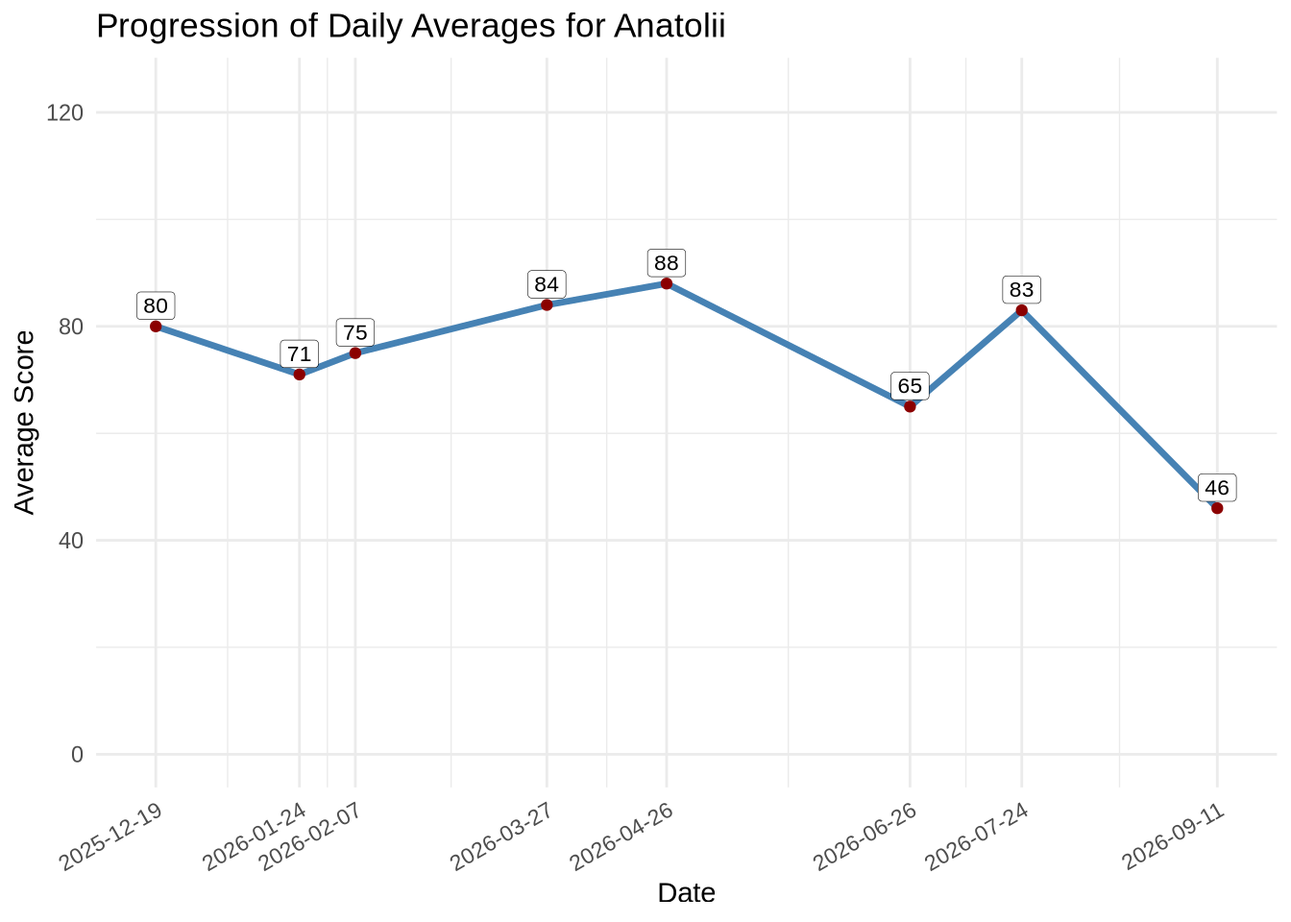
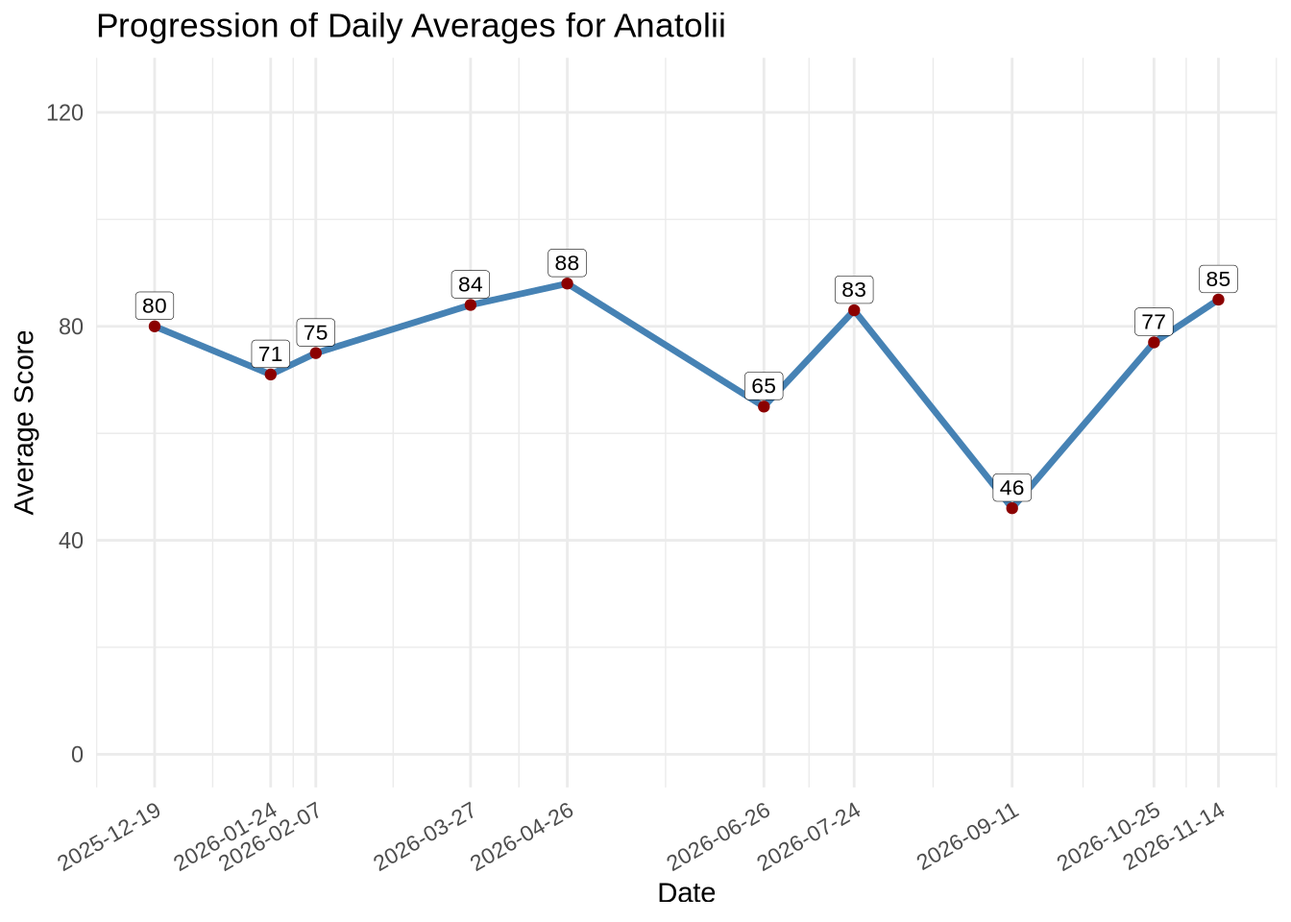
added last 2 rounds, 10 and 11-14

diff --git a/docs/sessions.html b/docs/sessions.html
@@ -172,83 +172,101 @@ ul.task-list li input[type="checkbox"] {
 
 <p>The sessions are sorted from new to old.</p>
 <section id="section" class="level2">
-<h2 class="anchored" data-anchor-id="section">11.09.2026</h2>
+<h2 class="anchored" data-anchor-id="section">14.11.2026</h2>
 <div class="cell">
 <div class="cell-output-display">
-<div class="datatables html-widget html-fill-item" id="htmlwidget-9b29dc53657fa2bf0456" style="width:100%;height:auto;"></div>
-<script type="application/json" data-for="htmlwidget-9b29dc53657fa2bf0456">{"x":{"filter":"none","vertical":false,"data":[["1","2","3","4","5"],["Flora","Daniel","Niko","Julia","Anatolii"],[95,83,96,64,50],[92,100,75,41,43],[93.5,91.5,85.5,52.5,46.5],[2.1,12,14.8,16.3,4.9],[0,3,0,0,1]],"container":"<table class=\"display\">\n  <thead>\n    <tr>\n      <th> <\/th>\n      <th>Player<\/th>\n      <th>Round 1<\/th>\n      <th>Round 2<\/th>\n      <th>Average Score<\/th>\n      <th>Score Standard Deviation<\/th>\n      <th>Strikes<\/th>\n    <\/tr>\n  <\/thead>\n<\/table>","options":{"dom":"t","paging":false,"searching":false,"info":false,"lengthChange":false,"columnDefs":[{"orderSequence":["desc","asc"],"targets":"_all"},{"className":"dt-right","targets":[2,3,4,5,6]},{"orderable":false,"targets":0},{"name":" ","targets":0},{"name":"Player","targets":1},{"name":"Round 1","targets":2},{"name":"Round 2","targets":3},{"name":"Average Score","targets":4},{"name":"Score Standard Deviation","targets":5},{"name":"Strikes","targets":6}],"order":[],"autoWidth":false,"orderClasses":false}},"evals":[],"jsHooks":[]}</script>
+<div class="datatables html-widget html-fill-item" id="htmlwidget-3974eeefaec88f6c987e" style="width:100%;height:auto;"></div>
+<script type="application/json" data-for="htmlwidget-3974eeefaec88f6c987e">{"x":{"filter":"none","vertical":false,"data":[["1","2","3","4"],["Anatolii","Daniel","Niko","Julia"],[90,77,66,50],[80,62,68,76],[85,69.5,67,63],[7.1,10.6,1.4,18.4],[0,1,1,0]],"container":"<table class=\"display\">\n  <thead>\n    <tr>\n      <th> <\/th>\n      <th>Player<\/th>\n      <th>Round 1<\/th>\n      <th>Round 2<\/th>\n      <th>Average Score<\/th>\n      <th>Score Standard Deviation<\/th>\n      <th>Strikes<\/th>\n    <\/tr>\n  <\/thead>\n<\/table>","options":{"dom":"t","paging":false,"searching":false,"info":false,"lengthChange":false,"columnDefs":[{"orderSequence":["desc","asc"],"targets":"_all"},{"className":"dt-right","targets":[2,3,4,5,6]},{"orderable":false,"targets":0},{"name":" ","targets":0},{"name":"Player","targets":1},{"name":"Round 1","targets":2},{"name":"Round 2","targets":3},{"name":"Average Score","targets":4},{"name":"Score Standard Deviation","targets":5},{"name":"Strikes","targets":6}],"order":[],"autoWidth":false,"orderClasses":false}},"evals":[],"jsHooks":[]}</script>
 </div>
 </div>
 </section>
 <section id="section-1" class="level2">
-<h2 class="anchored" data-anchor-id="section-1">24.07.2026</h2>
+<h2 class="anchored" data-anchor-id="section-1">25.10.2026</h2>
 <div class="cell">
 <div class="cell-output-display">
-<div class="datatables html-widget html-fill-item" id="htmlwidget-31cd765f9c8335df683f" style="width:100%;height:auto;"></div>
-<script type="application/json" data-for="htmlwidget-31cd765f9c8335df683f">{"x":{"filter":"none","vertical":false,"data":[["1","2","3","4"],["Anatolii","Flora","Julia","Niko"],[66,71,56,65],[100,80,71,52],[83,75.5,63.5,58.5],[24,6.4,10.6,9.199999999999999],[1,3,0,0]],"container":"<table class=\"display\">\n  <thead>\n    <tr>\n      <th> <\/th>\n      <th>Player<\/th>\n      <th>Round 1<\/th>\n      <th>Round 2<\/th>\n      <th>Average Score<\/th>\n      <th>Score Standard Deviation<\/th>\n      <th>Strikes<\/th>\n    <\/tr>\n  <\/thead>\n<\/table>","options":{"dom":"t","paging":false,"searching":false,"info":false,"lengthChange":false,"columnDefs":[{"orderSequence":["desc","asc"],"targets":"_all"},{"className":"dt-right","targets":[2,3,4,5,6]},{"orderable":false,"targets":0},{"name":" ","targets":0},{"name":"Player","targets":1},{"name":"Round 1","targets":2},{"name":"Round 2","targets":3},{"name":"Average Score","targets":4},{"name":"Score Standard Deviation","targets":5},{"name":"Strikes","targets":6}],"order":[],"autoWidth":false,"orderClasses":false}},"evals":[],"jsHooks":[]}</script>
+<div class="datatables html-widget html-fill-item" id="htmlwidget-6728438d6612a6961759" style="width:100%;height:auto;"></div>
+<script type="application/json" data-for="htmlwidget-6728438d6612a6961759">{"x":{"filter":"none","vertical":false,"data":[["1","2","3","4","5"],["Flora","Daniel","Anatolii","Julia","Niko"],[95,88,73,64,58],[106,83,81,63,57],[100.5,85.5,77,63.5,57.5],[7.8,3.5,5.7,0.7,0.7],[1,1,2,1,1]],"container":"<table class=\"display\">\n  <thead>\n    <tr>\n      <th> <\/th>\n      <th>Player<\/th>\n      <th>Round 1<\/th>\n      <th>Round 2<\/th>\n      <th>Average Score<\/th>\n      <th>Score Standard Deviation<\/th>\n      <th>Strikes<\/th>\n    <\/tr>\n  <\/thead>\n<\/table>","options":{"dom":"t","paging":false,"searching":false,"info":false,"lengthChange":false,"columnDefs":[{"orderSequence":["desc","asc"],"targets":"_all"},{"className":"dt-right","targets":[2,3,4,5,6]},{"orderable":false,"targets":0},{"name":" ","targets":0},{"name":"Player","targets":1},{"name":"Round 1","targets":2},{"name":"Round 2","targets":3},{"name":"Average Score","targets":4},{"name":"Score Standard Deviation","targets":5},{"name":"Strikes","targets":6}],"order":[],"autoWidth":false,"orderClasses":false}},"evals":[],"jsHooks":[]}</script>
 </div>
 </div>
 </section>
 <section id="section-2" class="level2">
-<h2 class="anchored" data-anchor-id="section-2">26.06.2026</h2>
+<h2 class="anchored" data-anchor-id="section-2">11.09.2026</h2>
 <div class="cell">
 <div class="cell-output-display">
-<div class="datatables html-widget html-fill-item" id="htmlwidget-b36b9832ddff176d84d3" style="width:100%;height:auto;"></div>
-<script type="application/json" data-for="htmlwidget-b36b9832ddff176d84d3">{"x":{"filter":"none","vertical":false,"data":[["1","2","3","4","5"],["Flora","Niko","Julia","Daniel","Anatolii"],[101,96,85,78,65],[101,96,85,78,65],[null,null,null,null,null],[2,1,1,0,1]],"container":"<table class=\"display\">\n  <thead>\n    <tr>\n      <th> <\/th>\n      <th>Player<\/th>\n      <th>Round 1<\/th>\n      <th>Average Score<\/th>\n      <th>Score Standard Deviation<\/th>\n      <th>Strikes<\/th>\n    <\/tr>\n  <\/thead>\n<\/table>","options":{"dom":"t","paging":false,"searching":false,"info":false,"lengthChange":false,"columnDefs":[{"orderSequence":["desc","asc"],"targets":"_all"},{"className":"dt-right","targets":[2,3,4,5]},{"orderable":false,"targets":0},{"name":" ","targets":0},{"name":"Player","targets":1},{"name":"Round 1","targets":2},{"name":"Average Score","targets":3},{"name":"Score Standard Deviation","targets":4},{"name":"Strikes","targets":5}],"order":[],"autoWidth":false,"orderClasses":false}},"evals":[],"jsHooks":[]}</script>
+<div class="datatables html-widget html-fill-item" id="htmlwidget-1ed8450b9f31a162fa86" style="width:100%;height:auto;"></div>
+<script type="application/json" data-for="htmlwidget-1ed8450b9f31a162fa86">{"x":{"filter":"none","vertical":false,"data":[["1","2","3","4","5"],["Flora","Daniel","Niko","Julia","Anatolii"],[95,83,96,64,50],[92,100,75,41,43],[93.5,91.5,85.5,52.5,46.5],[2.1,12,14.8,16.3,4.9],[0,3,0,0,1]],"container":"<table class=\"display\">\n  <thead>\n    <tr>\n      <th> <\/th>\n      <th>Player<\/th>\n      <th>Round 1<\/th>\n      <th>Round 2<\/th>\n      <th>Average Score<\/th>\n      <th>Score Standard Deviation<\/th>\n      <th>Strikes<\/th>\n    <\/tr>\n  <\/thead>\n<\/table>","options":{"dom":"t","paging":false,"searching":false,"info":false,"lengthChange":false,"columnDefs":[{"orderSequence":["desc","asc"],"targets":"_all"},{"className":"dt-right","targets":[2,3,4,5,6]},{"orderable":false,"targets":0},{"name":" ","targets":0},{"name":"Player","targets":1},{"name":"Round 1","targets":2},{"name":"Round 2","targets":3},{"name":"Average Score","targets":4},{"name":"Score Standard Deviation","targets":5},{"name":"Strikes","targets":6}],"order":[],"autoWidth":false,"orderClasses":false}},"evals":[],"jsHooks":[]}</script>
 </div>
 </div>
 </section>
 <section id="section-3" class="level2">
-<h2 class="anchored" data-anchor-id="section-3">26.04.2026</h2>
+<h2 class="anchored" data-anchor-id="section-3">24.07.2026</h2>
 <div class="cell">
 <div class="cell-output-display">
-<div class="datatables html-widget html-fill-item" id="htmlwidget-78da27607510c00e0f43" style="width:100%;height:auto;"></div>
-<script type="application/json" data-for="htmlwidget-78da27607510c00e0f43">{"x":{"filter":"none","vertical":false,"data":[["1","2","3","4"],["Anatolii","Niko","Daniel","Flora"],[85,85,57,46],[90,71,93,78],[87.5,78,75,62],[3.5,9.9,25.5,22.6],[2,0,1,1]],"container":"<table class=\"display\">\n  <thead>\n    <tr>\n      <th> <\/th>\n      <th>Player<\/th>\n      <th>Round 1<\/th>\n      <th>Round 2<\/th>\n      <th>Average Score<\/th>\n      <th>Score Standard Deviation<\/th>\n      <th>Strikes<\/th>\n    <\/tr>\n  <\/thead>\n<\/table>","options":{"dom":"t","paging":false,"searching":false,"info":false,"lengthChange":false,"columnDefs":[{"orderSequence":["desc","asc"],"targets":"_all"},{"className":"dt-right","targets":[2,3,4,5,6]},{"orderable":false,"targets":0},{"name":" ","targets":0},{"name":"Player","targets":1},{"name":"Round 1","targets":2},{"name":"Round 2","targets":3},{"name":"Average Score","targets":4},{"name":"Score Standard Deviation","targets":5},{"name":"Strikes","targets":6}],"order":[],"autoWidth":false,"orderClasses":false}},"evals":[],"jsHooks":[]}</script>
+<div class="datatables html-widget html-fill-item" id="htmlwidget-5e7804de46c9dbb04c93" style="width:100%;height:auto;"></div>
+<script type="application/json" data-for="htmlwidget-5e7804de46c9dbb04c93">{"x":{"filter":"none","vertical":false,"data":[["1","2","3","4"],["Anatolii","Flora","Julia","Niko"],[66,71,56,65],[100,80,71,52],[83,75.5,63.5,58.5],[24,6.4,10.6,9.199999999999999],[1,3,0,0]],"container":"<table class=\"display\">\n  <thead>\n    <tr>\n      <th> <\/th>\n      <th>Player<\/th>\n      <th>Round 1<\/th>\n      <th>Round 2<\/th>\n      <th>Average Score<\/th>\n      <th>Score Standard Deviation<\/th>\n      <th>Strikes<\/th>\n    <\/tr>\n  <\/thead>\n<\/table>","options":{"dom":"t","paging":false,"searching":false,"info":false,"lengthChange":false,"columnDefs":[{"orderSequence":["desc","asc"],"targets":"_all"},{"className":"dt-right","targets":[2,3,4,5,6]},{"orderable":false,"targets":0},{"name":" ","targets":0},{"name":"Player","targets":1},{"name":"Round 1","targets":2},{"name":"Round 2","targets":3},{"name":"Average Score","targets":4},{"name":"Score Standard Deviation","targets":5},{"name":"Strikes","targets":6}],"order":[],"autoWidth":false,"orderClasses":false}},"evals":[],"jsHooks":[]}</script>
 </div>
 </div>
 </section>
 <section id="section-4" class="level2">
-<h2 class="anchored" data-anchor-id="section-4">27.03.2026</h2>
+<h2 class="anchored" data-anchor-id="section-4">26.06.2026</h2>
 <div class="cell">
 <div class="cell-output-display">
-<div class="datatables html-widget html-fill-item" id="htmlwidget-7de2136e36e15fe004db" style="width:100%;height:auto;"></div>
-<script type="application/json" data-for="htmlwidget-7de2136e36e15fe004db">{"x":{"filter":"none","vertical":false,"data":[["1","2","3","4"],["Niko","Anatolii","Flora","Julia"],[119,88,75,49],[105,81,89,94],[112,84.5,82,71.5],[9.9,4.9,9.9,31.8],[3,2,1,4]],"container":"<table class=\"display\">\n  <thead>\n    <tr>\n      <th> <\/th>\n      <th>Player<\/th>\n      <th>Round 1<\/th>\n      <th>Round 2<\/th>\n      <th>Average Score<\/th>\n      <th>Score Standard Deviation<\/th>\n      <th>Strikes<\/th>\n    <\/tr>\n  <\/thead>\n<\/table>","options":{"dom":"t","paging":false,"searching":false,"info":false,"lengthChange":false,"columnDefs":[{"orderSequence":["desc","asc"],"targets":"_all"},{"className":"dt-right","targets":[2,3,4,5,6]},{"orderable":false,"targets":0},{"name":" ","targets":0},{"name":"Player","targets":1},{"name":"Round 1","targets":2},{"name":"Round 2","targets":3},{"name":"Average Score","targets":4},{"name":"Score Standard Deviation","targets":5},{"name":"Strikes","targets":6}],"order":[],"autoWidth":false,"orderClasses":false}},"evals":[],"jsHooks":[]}</script>
+<div class="datatables html-widget html-fill-item" id="htmlwidget-086f5611c55d9c74e61f" style="width:100%;height:auto;"></div>
+<script type="application/json" data-for="htmlwidget-086f5611c55d9c74e61f">{"x":{"filter":"none","vertical":false,"data":[["1","2","3","4","5"],["Flora","Niko","Julia","Daniel","Anatolii"],[101,96,85,78,65],[101,96,85,78,65],[null,null,null,null,null],[2,1,1,0,1]],"container":"<table class=\"display\">\n  <thead>\n    <tr>\n      <th> <\/th>\n      <th>Player<\/th>\n      <th>Round 1<\/th>\n      <th>Average Score<\/th>\n      <th>Score Standard Deviation<\/th>\n      <th>Strikes<\/th>\n    <\/tr>\n  <\/thead>\n<\/table>","options":{"dom":"t","paging":false,"searching":false,"info":false,"lengthChange":false,"columnDefs":[{"orderSequence":["desc","asc"],"targets":"_all"},{"className":"dt-right","targets":[2,3,4,5]},{"orderable":false,"targets":0},{"name":" ","targets":0},{"name":"Player","targets":1},{"name":"Round 1","targets":2},{"name":"Average Score","targets":3},{"name":"Score Standard Deviation","targets":4},{"name":"Strikes","targets":5}],"order":[],"autoWidth":false,"orderClasses":false}},"evals":[],"jsHooks":[]}</script>
 </div>
 </div>
 </section>
 <section id="section-5" class="level2">
-<h2 class="anchored" data-anchor-id="section-5">06.03.2026</h2>
+<h2 class="anchored" data-anchor-id="section-5">26.04.2026</h2>
 <div class="cell">
 <div class="cell-output-display">
-<div class="datatables html-widget html-fill-item" id="htmlwidget-5667e7560b008423b590" style="width:100%;height:auto;"></div>
-<script type="application/json" data-for="htmlwidget-5667e7560b008423b590">{"x":{"filter":"none","vertical":false,"data":[["1","2","3","4"],["Flora","Julia","Daniel","Maria"],[95,45,57,58],[77,64,50,38],[86,54.5,53.5,48],[12.7,13.4,4.9,14.1],[2,0,1,0]],"container":"<table class=\"display\">\n  <thead>\n    <tr>\n      <th> <\/th>\n      <th>Player<\/th>\n      <th>Round 1<\/th>\n      <th>Round 2<\/th>\n      <th>Average Score<\/th>\n      <th>Score Standard Deviation<\/th>\n      <th>Strikes<\/th>\n    <\/tr>\n  <\/thead>\n<\/table>","options":{"dom":"t","paging":false,"searching":false,"info":false,"lengthChange":false,"columnDefs":[{"orderSequence":["desc","asc"],"targets":"_all"},{"className":"dt-right","targets":[2,3,4,5,6]},{"orderable":false,"targets":0},{"name":" ","targets":0},{"name":"Player","targets":1},{"name":"Round 1","targets":2},{"name":"Round 2","targets":3},{"name":"Average Score","targets":4},{"name":"Score Standard Deviation","targets":5},{"name":"Strikes","targets":6}],"order":[],"autoWidth":false,"orderClasses":false}},"evals":[],"jsHooks":[]}</script>
+<div class="datatables html-widget html-fill-item" id="htmlwidget-18fb2f7a97e2a98253d0" style="width:100%;height:auto;"></div>
+<script type="application/json" data-for="htmlwidget-18fb2f7a97e2a98253d0">{"x":{"filter":"none","vertical":false,"data":[["1","2","3","4"],["Anatolii","Niko","Daniel","Flora"],[85,85,57,46],[90,71,93,78],[87.5,78,75,62],[3.5,9.9,25.5,22.6],[2,0,1,1]],"container":"<table class=\"display\">\n  <thead>\n    <tr>\n      <th> <\/th>\n      <th>Player<\/th>\n      <th>Round 1<\/th>\n      <th>Round 2<\/th>\n      <th>Average Score<\/th>\n      <th>Score Standard Deviation<\/th>\n      <th>Strikes<\/th>\n    <\/tr>\n  <\/thead>\n<\/table>","options":{"dom":"t","paging":false,"searching":false,"info":false,"lengthChange":false,"columnDefs":[{"orderSequence":["desc","asc"],"targets":"_all"},{"className":"dt-right","targets":[2,3,4,5,6]},{"orderable":false,"targets":0},{"name":" ","targets":0},{"name":"Player","targets":1},{"name":"Round 1","targets":2},{"name":"Round 2","targets":3},{"name":"Average Score","targets":4},{"name":"Score Standard Deviation","targets":5},{"name":"Strikes","targets":6}],"order":[],"autoWidth":false,"orderClasses":false}},"evals":[],"jsHooks":[]}</script>
 </div>
 </div>
 </section>
 <section id="section-6" class="level2">
-<h2 class="anchored" data-anchor-id="section-6">07.02.2026</h2>
+<h2 class="anchored" data-anchor-id="section-6">27.03.2026</h2>
 <div class="cell">
 <div class="cell-output-display">
-<div class="datatables html-widget html-fill-item" id="htmlwidget-8d096dc33406ac79f713" style="width:100%;height:auto;"></div>
-<script type="application/json" data-for="htmlwidget-8d096dc33406ac79f713">{"x":{"filter":"none","vertical":false,"data":[["1","2","3","4"],["Niko","Anatolii","Julia","Daniel"],[81,71,63,49],[124,74,68,82],[82,81,70,59],[95.7,75.3,67,63.3],[24.5,5.1,3.6,16.9],[2,2,0,0]],"container":"<table class=\"display\">\n  <thead>\n    <tr>\n      <th> <\/th>\n      <th>Player<\/th>\n      <th>Round 1<\/th>\n      <th>Round 2<\/th>\n      <th>Round 3<\/th>\n      <th>Average Score<\/th>\n      <th>Score Standard Deviation<\/th>\n      <th>Strikes<\/th>\n    <\/tr>\n  <\/thead>\n<\/table>","options":{"dom":"t","paging":false,"searching":false,"info":false,"lengthChange":false,"columnDefs":[{"orderSequence":["desc","asc"],"targets":"_all"},{"className":"dt-right","targets":[2,3,4,5,6,7]},{"orderable":false,"targets":0},{"name":" ","targets":0},{"name":"Player","targets":1},{"name":"Round 1","targets":2},{"name":"Round 2","targets":3},{"name":"Round 3","targets":4},{"name":"Average Score","targets":5},{"name":"Score Standard Deviation","targets":6},{"name":"Strikes","targets":7}],"order":[],"autoWidth":false,"orderClasses":false}},"evals":[],"jsHooks":[]}</script>
+<div class="datatables html-widget html-fill-item" id="htmlwidget-4a05735e17c3510a57b7" style="width:100%;height:auto;"></div>
+<script type="application/json" data-for="htmlwidget-4a05735e17c3510a57b7">{"x":{"filter":"none","vertical":false,"data":[["1","2","3","4"],["Niko","Anatolii","Flora","Julia"],[119,88,75,49],[105,81,89,94],[112,84.5,82,71.5],[9.9,4.9,9.9,31.8],[3,2,1,4]],"container":"<table class=\"display\">\n  <thead>\n    <tr>\n      <th> <\/th>\n      <th>Player<\/th>\n      <th>Round 1<\/th>\n      <th>Round 2<\/th>\n      <th>Average Score<\/th>\n      <th>Score Standard Deviation<\/th>\n      <th>Strikes<\/th>\n    <\/tr>\n  <\/thead>\n<\/table>","options":{"dom":"t","paging":false,"searching":false,"info":false,"lengthChange":false,"columnDefs":[{"orderSequence":["desc","asc"],"targets":"_all"},{"className":"dt-right","targets":[2,3,4,5,6]},{"orderable":false,"targets":0},{"name":" ","targets":0},{"name":"Player","targets":1},{"name":"Round 1","targets":2},{"name":"Round 2","targets":3},{"name":"Average Score","targets":4},{"name":"Score Standard Deviation","targets":5},{"name":"Strikes","targets":6}],"order":[],"autoWidth":false,"orderClasses":false}},"evals":[],"jsHooks":[]}</script>
 </div>
 </div>
 </section>
 <section id="section-7" class="level2">
-<h2 class="anchored" data-anchor-id="section-7">24.01.2026</h2>
+<h2 class="anchored" data-anchor-id="section-7">06.03.2026</h2>
 <div class="cell">
 <div class="cell-output-display">
-<div class="datatables html-widget html-fill-item" id="htmlwidget-af182bb5b9e8fd6903e7" style="width:100%;height:auto;"></div>
-<script type="application/json" data-for="htmlwidget-af182bb5b9e8fd6903e7">{"x":{"filter":"none","vertical":false,"data":[["1","2","3","4","5"],["Niko","Anatolii","Daniel","Julia","Flora"],[73,73,82,65,46],[101,70,54,81,81],[86,71,75,64,72],[86.7,71.3,70.3,70,66.3],[14,1.5,14.6,9.5,18.2],[2,2,0,3,1]],"container":"<table class=\"display\">\n  <thead>\n    <tr>\n      <th> <\/th>\n      <th>Player<\/th>\n      <th>Round 1<\/th>\n      <th>Round 2<\/th>\n      <th>Round 3<\/th>\n      <th>Average Score<\/th>\n      <th>Score Standard Deviation<\/th>\n      <th>Strikes<\/th>\n    <\/tr>\n  <\/thead>\n<\/table>","options":{"dom":"t","paging":false,"searching":false,"info":false,"lengthChange":false,"columnDefs":[{"orderSequence":["desc","asc"],"targets":"_all"},{"className":"dt-right","targets":[2,3,4,5,6,7]},{"orderable":false,"targets":0},{"name":" ","targets":0},{"name":"Player","targets":1},{"name":"Round 1","targets":2},{"name":"Round 2","targets":3},{"name":"Round 3","targets":4},{"name":"Average Score","targets":5},{"name":"Score Standard Deviation","targets":6},{"name":"Strikes","targets":7}],"order":[],"autoWidth":false,"orderClasses":false}},"evals":[],"jsHooks":[]}</script>
+<div class="datatables html-widget html-fill-item" id="htmlwidget-77eddeb67822b5fcebf8" style="width:100%;height:auto;"></div>
+<script type="application/json" data-for="htmlwidget-77eddeb67822b5fcebf8">{"x":{"filter":"none","vertical":false,"data":[["1","2","3","4"],["Flora","Julia","Daniel","Maria"],[95,45,57,58],[77,64,50,38],[86,54.5,53.5,48],[12.7,13.4,4.9,14.1],[2,0,1,0]],"container":"<table class=\"display\">\n  <thead>\n    <tr>\n      <th> <\/th>\n      <th>Player<\/th>\n      <th>Round 1<\/th>\n      <th>Round 2<\/th>\n      <th>Average Score<\/th>\n      <th>Score Standard Deviation<\/th>\n      <th>Strikes<\/th>\n    <\/tr>\n  <\/thead>\n<\/table>","options":{"dom":"t","paging":false,"searching":false,"info":false,"lengthChange":false,"columnDefs":[{"orderSequence":["desc","asc"],"targets":"_all"},{"className":"dt-right","targets":[2,3,4,5,6]},{"orderable":false,"targets":0},{"name":" ","targets":0},{"name":"Player","targets":1},{"name":"Round 1","targets":2},{"name":"Round 2","targets":3},{"name":"Average Score","targets":4},{"name":"Score Standard Deviation","targets":5},{"name":"Strikes","targets":6}],"order":[],"autoWidth":false,"orderClasses":false}},"evals":[],"jsHooks":[]}</script>
 </div>
 </div>
 </section>
 <section id="section-8" class="level2">
-<h2 class="anchored" data-anchor-id="section-8">19.12.2025</h2>
+<h2 class="anchored" data-anchor-id="section-8">07.02.2026</h2>
 <div class="cell">
 <div class="cell-output-display">
-<div class="datatables html-widget html-fill-item" id="htmlwidget-8f0e8293e048aa7f285f" style="width:100%;height:auto;"></div>
-<script type="application/json" data-for="htmlwidget-8f0e8293e048aa7f285f">{"x":{"filter":"none","vertical":false,"data":[["1","2","3","4","5"],["Niko","Anatolii","Julia","Flora","Daniel"],[73,61,66,105,48],[97,79,79,51,77],[90,101,79,43,49],[86.7,80.3,74.7,66.3,58],[12.3,20,7.5,33.7,16.5],[3,2,0,2,1]],"container":"<table class=\"display\">\n  <thead>\n    <tr>\n      <th> <\/th>\n      <th>Player<\/th>\n      <th>Round 1<\/th>\n      <th>Round 2<\/th>\n      <th>Round 3<\/th>\n      <th>Average Score<\/th>\n      <th>Score Standard Deviation<\/th>\n      <th>Strikes<\/th>\n    <\/tr>\n  <\/thead>\n<\/table>","options":{"dom":"t","paging":false,"searching":false,"info":false,"lengthChange":false,"columnDefs":[{"orderSequence":["desc","asc"],"targets":"_all"},{"className":"dt-right","targets":[2,3,4,5,6,7]},{"orderable":false,"targets":0},{"name":" ","targets":0},{"name":"Player","targets":1},{"name":"Round 1","targets":2},{"name":"Round 2","targets":3},{"name":"Round 3","targets":4},{"name":"Average Score","targets":5},{"name":"Score Standard Deviation","targets":6},{"name":"Strikes","targets":7}],"order":[],"autoWidth":false,"orderClasses":false}},"evals":[],"jsHooks":[]}</script>
+<div class="datatables html-widget html-fill-item" id="htmlwidget-a8552e7b45ebaf89b95a" style="width:100%;height:auto;"></div>
+<script type="application/json" data-for="htmlwidget-a8552e7b45ebaf89b95a">{"x":{"filter":"none","vertical":false,"data":[["1","2","3","4"],["Niko","Anatolii","Julia","Daniel"],[81,71,63,49],[124,74,68,82],[82,81,70,59],[95.7,75.3,67,63.3],[24.5,5.1,3.6,16.9],[2,2,0,0]],"container":"<table class=\"display\">\n  <thead>\n    <tr>\n      <th> <\/th>\n      <th>Player<\/th>\n      <th>Round 1<\/th>\n      <th>Round 2<\/th>\n      <th>Round 3<\/th>\n      <th>Average Score<\/th>\n      <th>Score Standard Deviation<\/th>\n      <th>Strikes<\/th>\n    <\/tr>\n  <\/thead>\n<\/table>","options":{"dom":"t","paging":false,"searching":false,"info":false,"lengthChange":false,"columnDefs":[{"orderSequence":["desc","asc"],"targets":"_all"},{"className":"dt-right","targets":[2,3,4,5,6,7]},{"orderable":false,"targets":0},{"name":" ","targets":0},{"name":"Player","targets":1},{"name":"Round 1","targets":2},{"name":"Round 2","targets":3},{"name":"Round 3","targets":4},{"name":"Average Score","targets":5},{"name":"Score Standard Deviation","targets":6},{"name":"Strikes","targets":7}],"order":[],"autoWidth":false,"orderClasses":false}},"evals":[],"jsHooks":[]}</script>
+</div>
+</div>
+</section>
+<section id="section-9" class="level2">
+<h2 class="anchored" data-anchor-id="section-9">24.01.2026</h2>
+<div class="cell">
+<div class="cell-output-display">
+<div class="datatables html-widget html-fill-item" id="htmlwidget-12559057b28414e3781e" style="width:100%;height:auto;"></div>
+<script type="application/json" data-for="htmlwidget-12559057b28414e3781e">{"x":{"filter":"none","vertical":false,"data":[["1","2","3","4","5"],["Niko","Anatolii","Daniel","Julia","Flora"],[73,73,82,65,46],[101,70,54,81,81],[86,71,75,64,72],[86.7,71.3,70.3,70,66.3],[14,1.5,14.6,9.5,18.2],[2,2,0,3,1]],"container":"<table class=\"display\">\n  <thead>\n    <tr>\n      <th> <\/th>\n      <th>Player<\/th>\n      <th>Round 1<\/th>\n      <th>Round 2<\/th>\n      <th>Round 3<\/th>\n      <th>Average Score<\/th>\n      <th>Score Standard Deviation<\/th>\n      <th>Strikes<\/th>\n    <\/tr>\n  <\/thead>\n<\/table>","options":{"dom":"t","paging":false,"searching":false,"info":false,"lengthChange":false,"columnDefs":[{"orderSequence":["desc","asc"],"targets":"_all"},{"className":"dt-right","targets":[2,3,4,5,6,7]},{"orderable":false,"targets":0},{"name":" ","targets":0},{"name":"Player","targets":1},{"name":"Round 1","targets":2},{"name":"Round 2","targets":3},{"name":"Round 3","targets":4},{"name":"Average Score","targets":5},{"name":"Score Standard Deviation","targets":6},{"name":"Strikes","targets":7}],"order":[],"autoWidth":false,"orderClasses":false}},"evals":[],"jsHooks":[]}</script>
+</div>
+</div>
+</section>
+<section id="section-10" class="level2">
+<h2 class="anchored" data-anchor-id="section-10">19.12.2025</h2>
+<div class="cell">
+<div class="cell-output-display">
+<div class="datatables html-widget html-fill-item" id="htmlwidget-1e51ff8ebfd592b9904b" style="width:100%;height:auto;"></div>
+<script type="application/json" data-for="htmlwidget-1e51ff8ebfd592b9904b">{"x":{"filter":"none","vertical":false,"data":[["1","2","3","4","5"],["Niko","Anatolii","Julia","Flora","Daniel"],[73,61,66,105,48],[97,79,79,51,77],[90,101,79,43,49],[86.7,80.3,74.7,66.3,58],[12.3,20,7.5,33.7,16.5],[3,2,0,2,1]],"container":"<table class=\"display\">\n  <thead>\n    <tr>\n      <th> <\/th>\n      <th>Player<\/th>\n      <th>Round 1<\/th>\n      <th>Round 2<\/th>\n      <th>Round 3<\/th>\n      <th>Average Score<\/th>\n      <th>Score Standard Deviation<\/th>\n      <th>Strikes<\/th>\n    <\/tr>\n  <\/thead>\n<\/table>","options":{"dom":"t","paging":false,"searching":false,"info":false,"lengthChange":false,"columnDefs":[{"orderSequence":["desc","asc"],"targets":"_all"},{"className":"dt-right","targets":[2,3,4,5,6,7]},{"orderable":false,"targets":0},{"name":" ","targets":0},{"name":"Player","targets":1},{"name":"Round 1","targets":2},{"name":"Round 2","targets":3},{"name":"Round 3","targets":4},{"name":"Average Score","targets":5},{"name":"Score Standard Deviation","targets":6},{"name":"Strikes","targets":7}],"order":[],"autoWidth":false,"orderClasses":false}},"evals":[],"jsHooks":[]}</script>
 </div>
 </div>
 

diff --git a/docs/index.html b/docs/index.html
@@ -172,8 +172,8 @@ ul.task-list li input[type="checkbox"] {
 
 <div class="cell">
 <div class="cell-output-display">
-<div class="datatables html-widget html-fill-item" id="htmlwidget-d736803bef80e8292404" style="width:100%;height:auto;"></div>
-<script type="application/json" data-for="htmlwidget-d736803bef80e8292404">{"x":{"filter":"none","vertical":false,"data":[["1","2","3","4","5","6"],["Niko","Flora","Anatolii","Daniel","Julia","Maria"],[18,17,18,16,18,2],[87.3,76.3,74.90000000000001,68.3,66.90000000000001,48],[124,105,101,100,94,58],[52,43,43,48,41,38],[18.4,19.7,15.3,17.2,13.8,14.1],[0.6,0.7,0.7,0.4,0.4,0]],"container":"<table class=\"display\">\n  <thead>\n    <tr>\n      <th> <\/th>\n      <th>Player<\/th>\n      <th>Total Rounds Played<\/th>\n      <th>Average Score<\/th>\n      <th>Best Score<\/th>\n      <th>Worst Score<\/th>\n      <th>Score Standard Deviation<\/th>\n      <th>Strikes/ Game<\/th>\n    <\/tr>\n  <\/thead>\n<\/table>","options":{"dom":"t","paging":false,"searching":false,"info":false,"lengthChange":false,"columnDefs":[{"orderSequence":["desc","asc"],"targets":"_all"},{"className":"dt-right","targets":[2,3,4,5,6,7]},{"orderable":false,"targets":0},{"name":" ","targets":0},{"name":"Player","targets":1},{"name":"Total Rounds Played","targets":2},{"name":"Average Score","targets":3},{"name":"Best Score","targets":4},{"name":"Worst Score","targets":5},{"name":"Score Standard Deviation","targets":6},{"name":"Strikes/ Game","targets":7}],"order":[],"autoWidth":false,"orderClasses":false}},"evals":[],"jsHooks":[]}</script>
+<div class="datatables html-widget html-fill-item" id="htmlwidget-62793289dd8eb1cf0299" style="width:100%;height:auto;"></div>
+<script type="application/json" data-for="htmlwidget-62793289dd8eb1cf0299">{"x":{"filter":"none","vertical":false,"data":[["1","2","3","4","5","6"],["Niko","Flora","Anatolii","Daniel","Julia","Maria"],[22,19,22,20,22,2],[82.7,78.8,76,70.2,66.2,48],[124,106,101,100,94,58],[52,43,43,48,41,38],[19.4,20.2,14.2,16.4,13.1,14.1],[0.6,0.7,0.7,0.4,0.4,0]],"container":"<table class=\"display\">\n  <thead>\n    <tr>\n      <th> <\/th>\n      <th>Player<\/th>\n      <th>Total Rounds Played<\/th>\n      <th>Average Score<\/th>\n      <th>Best Score<\/th>\n      <th>Worst Score<\/th>\n      <th>Score Standard Deviation<\/th>\n      <th>Strikes/ Game<\/th>\n    <\/tr>\n  <\/thead>\n<\/table>","options":{"dom":"t","paging":false,"searching":false,"info":false,"lengthChange":false,"columnDefs":[{"orderSequence":["desc","asc"],"targets":"_all"},{"className":"dt-right","targets":[2,3,4,5,6,7]},{"orderable":false,"targets":0},{"name":" ","targets":0},{"name":"Player","targets":1},{"name":"Total Rounds Played","targets":2},{"name":"Average Score","targets":3},{"name":"Best Score","targets":4},{"name":"Worst Score","targets":5},{"name":"Score Standard Deviation","targets":6},{"name":"Strikes/ Game","targets":7}],"order":[],"autoWidth":false,"orderClasses":false}},"evals":[],"jsHooks":[]}</script>
 </div>
 </div>
 

diff --git a/docs/players/anatolii.html b/docs/players/anatolii.html
@@ -172,8 +172,8 @@ ul.task-list li input[type="checkbox"] {
 <h2 class="anchored" data-anchor-id="stats-overview">Stats Overview</h2>
 <div class="cell">
 <div class="cell-output-display">
-<div class="datatables html-widget html-fill-item" id="htmlwidget-d1f187b091dfd30f0d0b" style="width:100%;height:auto;"></div>
-<script type="application/json" data-for="htmlwidget-d1f187b091dfd30f0d0b">{"x":{"filter":"none","vertical":false,"data":[[18],[101],[43],[74.90000000000001],[15.3],[0.7]],"container":"<table class=\"display\">\n  <thead>\n    <tr>\n      <th>Total Rounds Played<\/th>\n      <th>Highest Score<\/th>\n      <th>Lowest Score<\/th>\n      <th>Average Score<\/th>\n      <th>Score Standard Deviation<\/th>\n      <th>Strikes/ Game<\/th>\n    <\/tr>\n  <\/thead>\n<\/table>","options":{"dom":"t","paging":false,"searching":false,"info":false,"lengthChange":false,"columnDefs":[{"className":"dt-right","targets":[0,1,2,3,4,5]},{"name":"Total Rounds Played","targets":0},{"name":"Highest Score","targets":1},{"name":"Lowest Score","targets":2},{"name":"Average Score","targets":3},{"name":"Score Standard Deviation","targets":4},{"name":"Strikes/ Game","targets":5}],"order":[],"autoWidth":false,"orderClasses":false}},"evals":[],"jsHooks":[]}</script>
+<div class="datatables html-widget html-fill-item" id="htmlwidget-e40f7ddb2693a8d389fc" style="width:100%;height:auto;"></div>
+<script type="application/json" data-for="htmlwidget-e40f7ddb2693a8d389fc">{"x":{"filter":"none","vertical":false,"data":[[22],[101],[43],[76],[14.2],[0.7]],"container":"<table class=\"display\">\n  <thead>\n    <tr>\n      <th>Total Rounds Played<\/th>\n      <th>Highest Score<\/th>\n      <th>Lowest Score<\/th>\n      <th>Average Score<\/th>\n      <th>Score Standard Deviation<\/th>\n      <th>Strikes/ Game<\/th>\n    <\/tr>\n  <\/thead>\n<\/table>","options":{"dom":"t","paging":false,"searching":false,"info":false,"lengthChange":false,"columnDefs":[{"className":"dt-right","targets":[0,1,2,3,4,5]},{"name":"Total Rounds Played","targets":0},{"name":"Highest Score","targets":1},{"name":"Lowest Score","targets":2},{"name":"Average Score","targets":3},{"name":"Score Standard Deviation","targets":4},{"name":"Strikes/ Game","targets":5}],"order":[],"autoWidth":false,"orderClasses":false}},"evals":[],"jsHooks":[]}</script>
 </div>
 </div>
 </section>

diff --git a/docs/players/julia.html b/docs/players/julia.html
@@ -172,8 +172,8 @@ ul.task-list li input[type="checkbox"] {
 <h2 class="anchored" data-anchor-id="stats-overview">Stats Overview</h2>
 <div class="cell">
 <div class="cell-output-display">
-<div class="datatables html-widget html-fill-item" id="htmlwidget-fe9e21d6791cda214636" style="width:100%;height:auto;"></div>
-<script type="application/json" data-for="htmlwidget-fe9e21d6791cda214636">{"x":{"filter":"none","vertical":false,"data":[[18],[94],[41],[66.90000000000001],[13.8],[0.4]],"container":"<table class=\"display\">\n  <thead>\n    <tr>\n      <th>Total Rounds Played<\/th>\n      <th>Highest Score<\/th>\n      <th>Lowest Score<\/th>\n      <th>Average Score<\/th>\n      <th>Score Standard Deviation<\/th>\n      <th>Strikes/ Game<\/th>\n    <\/tr>\n  <\/thead>\n<\/table>","options":{"dom":"t","paging":false,"searching":false,"info":false,"lengthChange":false,"columnDefs":[{"className":"dt-right","targets":[0,1,2,3,4,5]},{"name":"Total Rounds Played","targets":0},{"name":"Highest Score","targets":1},{"name":"Lowest Score","targets":2},{"name":"Average Score","targets":3},{"name":"Score Standard Deviation","targets":4},{"name":"Strikes/ Game","targets":5}],"order":[],"autoWidth":false,"orderClasses":false}},"evals":[],"jsHooks":[]}</script>
+<div class="datatables html-widget html-fill-item" id="htmlwidget-4361b26e2215b570cb47" style="width:100%;height:auto;"></div>
+<script type="application/json" data-for="htmlwidget-4361b26e2215b570cb47">{"x":{"filter":"none","vertical":false,"data":[[22],[94],[41],[66.2],[13.1],[0.4]],"container":"<table class=\"display\">\n  <thead>\n    <tr>\n      <th>Total Rounds Played<\/th>\n      <th>Highest Score<\/th>\n      <th>Lowest Score<\/th>\n      <th>Average Score<\/th>\n      <th>Score Standard Deviation<\/th>\n      <th>Strikes/ Game<\/th>\n    <\/tr>\n  <\/thead>\n<\/table>","options":{"dom":"t","paging":false,"searching":false,"info":false,"lengthChange":false,"columnDefs":[{"className":"dt-right","targets":[0,1,2,3,4,5]},{"name":"Total Rounds Played","targets":0},{"name":"Highest Score","targets":1},{"name":"Lowest Score","targets":2},{"name":"Average Score","targets":3},{"name":"Score Standard Deviation","targets":4},{"name":"Strikes/ Game","targets":5}],"order":[],"autoWidth":false,"orderClasses":false}},"evals":[],"jsHooks":[]}</script>
 </div>
 </div>
 </section>

diff --git a/docs/players/daniel.html b/docs/players/daniel.html
@@ -172,8 +172,8 @@ ul.task-list li input[type="checkbox"] {
 <h2 class="anchored" data-anchor-id="stats-overview">Stats Overview</h2>
 <div class="cell">
 <div class="cell-output-display">
-<div class="datatables html-widget html-fill-item" id="htmlwidget-0db25f8f51459a65c481" style="width:100%;height:auto;"></div>
-<script type="application/json" data-for="htmlwidget-0db25f8f51459a65c481">{"x":{"filter":"none","vertical":false,"data":[[16],[100],[48],[68.3],[17.2],[0.4]],"container":"<table class=\"display\">\n  <thead>\n    <tr>\n      <th>Total Rounds Played<\/th>\n      <th>Highest Score<\/th>\n      <th>Lowest Score<\/th>\n      <th>Average Score<\/th>\n      <th>Score Standard Deviation<\/th>\n      <th>Strikes/ Game<\/th>\n    <\/tr>\n  <\/thead>\n<\/table>","options":{"dom":"t","paging":false,"searching":false,"info":false,"lengthChange":false,"columnDefs":[{"className":"dt-right","targets":[0,1,2,3,4,5]},{"name":"Total Rounds Played","targets":0},{"name":"Highest Score","targets":1},{"name":"Lowest Score","targets":2},{"name":"Average Score","targets":3},{"name":"Score Standard Deviation","targets":4},{"name":"Strikes/ Game","targets":5}],"order":[],"autoWidth":false,"orderClasses":false}},"evals":[],"jsHooks":[]}</script>
+<div class="datatables html-widget html-fill-item" id="htmlwidget-b0449478b7ada9114bcb" style="width:100%;height:auto;"></div>
+<script type="application/json" data-for="htmlwidget-b0449478b7ada9114bcb">{"x":{"filter":"none","vertical":false,"data":[[20],[100],[48],[70.2],[16.4],[0.4]],"container":"<table class=\"display\">\n  <thead>\n    <tr>\n      <th>Total Rounds Played<\/th>\n      <th>Highest Score<\/th>\n      <th>Lowest Score<\/th>\n      <th>Average Score<\/th>\n      <th>Score Standard Deviation<\/th>\n      <th>Strikes/ Game<\/th>\n    <\/tr>\n  <\/thead>\n<\/table>","options":{"dom":"t","paging":false,"searching":false,"info":false,"lengthChange":false,"columnDefs":[{"className":"dt-right","targets":[0,1,2,3,4,5]},{"name":"Total Rounds Played","targets":0},{"name":"Highest Score","targets":1},{"name":"Lowest Score","targets":2},{"name":"Average Score","targets":3},{"name":"Score Standard Deviation","targets":4},{"name":"Strikes/ Game","targets":5}],"order":[],"autoWidth":false,"orderClasses":false}},"evals":[],"jsHooks":[]}</script>
 </div>
 </div>
 </section>

diff --git a/docs/players/flora.html b/docs/players/flora.html
@@ -172,8 +172,8 @@ ul.task-list li input[type="checkbox"] {
 <h2 class="anchored" data-anchor-id="stats-overview">Stats Overview</h2>
 <div class="cell">
 <div class="cell-output-display">
-<div class="datatables html-widget html-fill-item" id="htmlwidget-5d99913246b0b9ee1dcb" style="width:100%;height:auto;"></div>
-<script type="application/json" data-for="htmlwidget-5d99913246b0b9ee1dcb">{"x":{"filter":"none","vertical":false,"data":[[17],[105],[43],[76.3],[19.7],[0.7]],"container":"<table class=\"display\">\n  <thead>\n    <tr>\n      <th>Total Rounds Played<\/th>\n      <th>Highest Score<\/th>\n      <th>Lowest Score<\/th>\n      <th>Average Score<\/th>\n      <th>Score Standard Deviation<\/th>\n      <th>Strikes/ Game<\/th>\n    <\/tr>\n  <\/thead>\n<\/table>","options":{"dom":"t","paging":false,"searching":false,"info":false,"lengthChange":false,"columnDefs":[{"className":"dt-right","targets":[0,1,2,3,4,5]},{"name":"Total Rounds Played","targets":0},{"name":"Highest Score","targets":1},{"name":"Lowest Score","targets":2},{"name":"Average Score","targets":3},{"name":"Score Standard Deviation","targets":4},{"name":"Strikes/ Game","targets":5}],"order":[],"autoWidth":false,"orderClasses":false}},"evals":[],"jsHooks":[]}</script>
+<div class="datatables html-widget html-fill-item" id="htmlwidget-6328eab95786629eae19" style="width:100%;height:auto;"></div>
+<script type="application/json" data-for="htmlwidget-6328eab95786629eae19">{"x":{"filter":"none","vertical":false,"data":[[19],[106],[43],[78.8],[20.2],[0.7]],"container":"<table class=\"display\">\n  <thead>\n    <tr>\n      <th>Total Rounds Played<\/th>\n      <th>Highest Score<\/th>\n      <th>Lowest Score<\/th>\n      <th>Average Score<\/th>\n      <th>Score Standard Deviation<\/th>\n      <th>Strikes/ Game<\/th>\n    <\/tr>\n  <\/thead>\n<\/table>","options":{"dom":"t","paging":false,"searching":false,"info":false,"lengthChange":false,"columnDefs":[{"className":"dt-right","targets":[0,1,2,3,4,5]},{"name":"Total Rounds Played","targets":0},{"name":"Highest Score","targets":1},{"name":"Lowest Score","targets":2},{"name":"Average Score","targets":3},{"name":"Score Standard Deviation","targets":4},{"name":"Strikes/ Game","targets":5}],"order":[],"autoWidth":false,"orderClasses":false}},"evals":[],"jsHooks":[]}</script>
 </div>
 </div>
 </section>

diff --git a/docs/players/niko.html b/docs/players/niko.html
@@ -172,8 +172,8 @@ ul.task-list li input[type="checkbox"] {
 <h2 class="anchored" data-anchor-id="stats-overview">Stats Overview</h2>
 <div class="cell">
 <div class="cell-output-display">
-<div class="datatables html-widget html-fill-item" id="htmlwidget-e057c902f9fa2cc9fa0c" style="width:100%;height:auto;"></div>
-<script type="application/json" data-for="htmlwidget-e057c902f9fa2cc9fa0c">{"x":{"filter":"none","vertical":false,"data":[[18],[124],[52],[87.3],[18.4],[0.6]],"container":"<table class=\"display\">\n  <thead>\n    <tr>\n      <th>Total Rounds Played<\/th>\n      <th>Highest Score<\/th>\n      <th>Lowest Score<\/th>\n      <th>Average Score<\/th>\n      <th>Score Standard Deviation<\/th>\n      <th>Strikes/ Game<\/th>\n    <\/tr>\n  <\/thead>\n<\/table>","options":{"dom":"t","paging":false,"searching":false,"info":false,"lengthChange":false,"columnDefs":[{"className":"dt-right","targets":[0,1,2,3,4,5]},{"name":"Total Rounds Played","targets":0},{"name":"Highest Score","targets":1},{"name":"Lowest Score","targets":2},{"name":"Average Score","targets":3},{"name":"Score Standard Deviation","targets":4},{"name":"Strikes/ Game","targets":5}],"order":[],"autoWidth":false,"orderClasses":false}},"evals":[],"jsHooks":[]}</script>
+<div class="datatables html-widget html-fill-item" id="htmlwidget-ed33348160e2b6644aa3" style="width:100%;height:auto;"></div>
+<script type="application/json" data-for="htmlwidget-ed33348160e2b6644aa3">{"x":{"filter":"none","vertical":false,"data":[[22],[124],[52],[82.7],[19.4],[0.6]],"container":"<table class=\"display\">\n  <thead>\n    <tr>\n      <th>Total Rounds Played<\/th>\n      <th>Highest Score<\/th>\n      <th>Lowest Score<\/th>\n      <th>Average Score<\/th>\n      <th>Score Standard Deviation<\/th>\n      <th>Strikes/ Game<\/th>\n    <\/tr>\n  <\/thead>\n<\/table>","options":{"dom":"t","paging":false,"searching":false,"info":false,"lengthChange":false,"columnDefs":[{"className":"dt-right","targets":[0,1,2,3,4,5]},{"name":"Total Rounds Played","targets":0},{"name":"Highest Score","targets":1},{"name":"Lowest Score","targets":2},{"name":"Average Score","targets":3},{"name":"Score Standard Deviation","targets":4},{"name":"Strikes/ Game","targets":5}],"order":[],"autoWidth":false,"orderClasses":false}},"evals":[],"jsHooks":[]}</script>
 </div>
 </div>
 </section>

diff --git a/docs/players/nico.html b/docs/players/nico.html
@@ -180,8 +180,8 @@ Caused by warning in `max()`:
 ℹ Run `dplyr::last_dplyr_warnings()` to see the 1 remaining warning.</code></pre>
 </div>
 <div class="cell-output-display">
-<div class="datatables html-widget html-fill-item" id="htmlwidget-b0956301dfa7ec99aedc" style="width:100%;height:auto;"></div>
-<script type="application/json" data-for="htmlwidget-b0956301dfa7ec99aedc">{"x":{"filter":"none","vertical":false,"data":[[0],[null],[null],[null],[null],[null]],"container":"<table class=\"display\">\n  <thead>\n    <tr>\n      <th>Total Rounds Played<\/th>\n      <th>Highest Score<\/th>\n      <th>Lowest Score<\/th>\n      <th>Average Score<\/th>\n      <th>Score Standard Deviation<\/th>\n      <th>Strikes/ Game<\/th>\n    <\/tr>\n  <\/thead>\n<\/table>","options":{"dom":"t","paging":false,"searching":false,"info":false,"lengthChange":false,"columnDefs":[{"className":"dt-right","targets":[0,1,2,3,4,5]},{"name":"Total Rounds Played","targets":0},{"name":"Highest Score","targets":1},{"name":"Lowest Score","targets":2},{"name":"Average Score","targets":3},{"name":"Score Standard Deviation","targets":4},{"name":"Strikes/ Game","targets":5}],"order":[],"autoWidth":false,"orderClasses":false}},"evals":[],"jsHooks":[]}</script>
+<div class="datatables html-widget html-fill-item" id="htmlwidget-0140e65dfca684a06282" style="width:100%;height:auto;"></div>
+<script type="application/json" data-for="htmlwidget-0140e65dfca684a06282">{"x":{"filter":"none","vertical":false,"data":[[0],[null],[null],[null],[null],[null]],"container":"<table class=\"display\">\n  <thead>\n    <tr>\n      <th>Total Rounds Played<\/th>\n      <th>Highest Score<\/th>\n      <th>Lowest Score<\/th>\n      <th>Average Score<\/th>\n      <th>Score Standard Deviation<\/th>\n      <th>Strikes/ Game<\/th>\n    <\/tr>\n  <\/thead>\n<\/table>","options":{"dom":"t","paging":false,"searching":false,"info":false,"lengthChange":false,"columnDefs":[{"className":"dt-right","targets":[0,1,2,3,4,5]},{"name":"Total Rounds Played","targets":0},{"name":"Highest Score","targets":1},{"name":"Lowest Score","targets":2},{"name":"Average Score","targets":3},{"name":"Score Standard Deviation","targets":4},{"name":"Strikes/ Game","targets":5}],"order":[],"autoWidth":false,"orderClasses":false}},"evals":[],"jsHooks":[]}</script>
 </div>
 </div>
 </section>

diff --git a/docs/players/maria.html b/docs/players/maria.html
@@ -172,8 +172,8 @@ ul.task-list li input[type="checkbox"] {
 <h2 class="anchored" data-anchor-id="stats-overview">Stats Overview</h2>
 <div class="cell">
 <div class="cell-output-display">
-<div class="datatables html-widget html-fill-item" id="htmlwidget-9d9e83c9d14fcc4ca39b" style="width:100%;height:auto;"></div>
-<script type="application/json" data-for="htmlwidget-9d9e83c9d14fcc4ca39b">{"x":{"filter":"none","vertical":false,"data":[[2],[58],[38],[48],[14.1],[0]],"container":"<table class=\"display\">\n  <thead>\n    <tr>\n      <th>Total Rounds Played<\/th>\n      <th>Highest Score<\/th>\n      <th>Lowest Score<\/th>\n      <th>Average Score<\/th>\n      <th>Score Standard Deviation<\/th>\n      <th>Strikes/ Game<\/th>\n    <\/tr>\n  <\/thead>\n<\/table>","options":{"dom":"t","paging":false,"searching":false,"info":false,"lengthChange":false,"columnDefs":[{"className":"dt-right","targets":[0,1,2,3,4,5]},{"name":"Total Rounds Played","targets":0},{"name":"Highest Score","targets":1},{"name":"Lowest Score","targets":2},{"name":"Average Score","targets":3},{"name":"Score Standard Deviation","targets":4},{"name":"Strikes/ Game","targets":5}],"order":[],"autoWidth":false,"orderClasses":false}},"evals":[],"jsHooks":[]}</script>
+<div class="datatables html-widget html-fill-item" id="htmlwidget-3aaa410e1d632c335355" style="width:100%;height:auto;"></div>
+<script type="application/json" data-for="htmlwidget-3aaa410e1d632c335355">{"x":{"filter":"none","vertical":false,"data":[[2],[58],[38],[48],[14.1],[0]],"container":"<table class=\"display\">\n  <thead>\n    <tr>\n      <th>Total Rounds Played<\/th>\n      <th>Highest Score<\/th>\n      <th>Lowest Score<\/th>\n      <th>Average Score<\/th>\n      <th>Score Standard Deviation<\/th>\n      <th>Strikes/ Game<\/th>\n    <\/tr>\n  <\/thead>\n<\/table>","options":{"dom":"t","paging":false,"searching":false,"info":false,"lengthChange":false,"columnDefs":[{"className":"dt-right","targets":[0,1,2,3,4,5]},{"name":"Total Rounds Played","targets":0},{"name":"Highest Score","targets":1},{"name":"Lowest Score","targets":2},{"name":"Average Score","targets":3},{"name":"Score Standard Deviation","targets":4},{"name":"Strikes/ Game","targets":5}],"order":[],"autoWidth":false,"orderClasses":false}},"evals":[],"jsHooks":[]}</script>
 </div>
 </div>
 </section>
